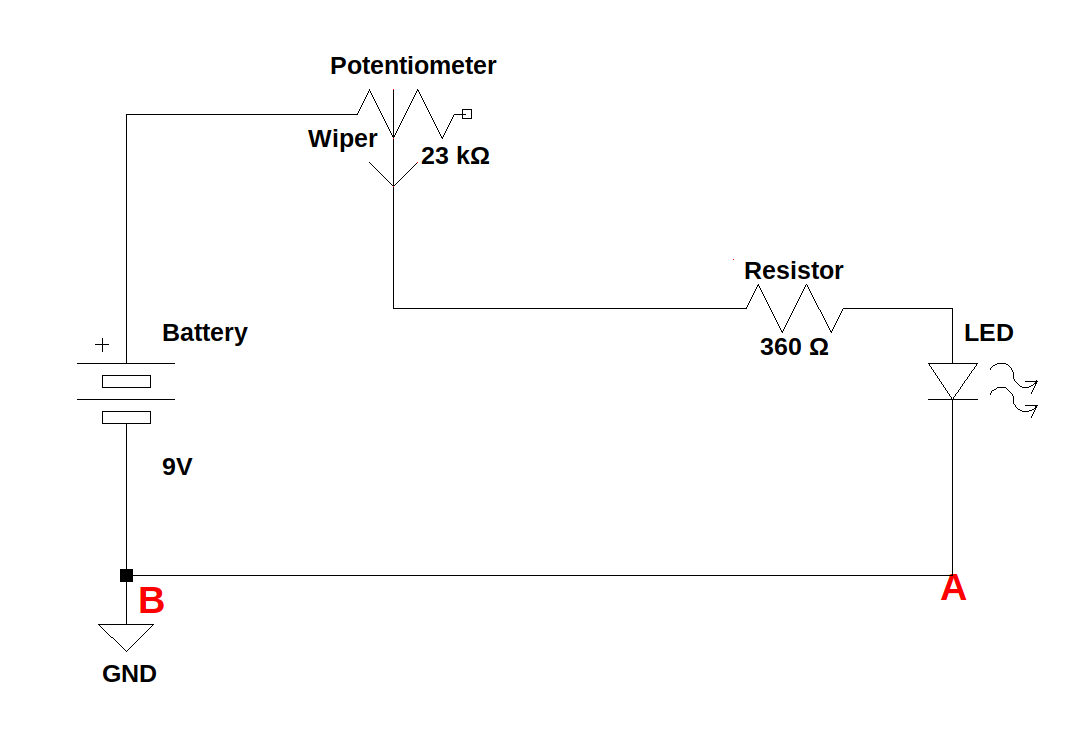
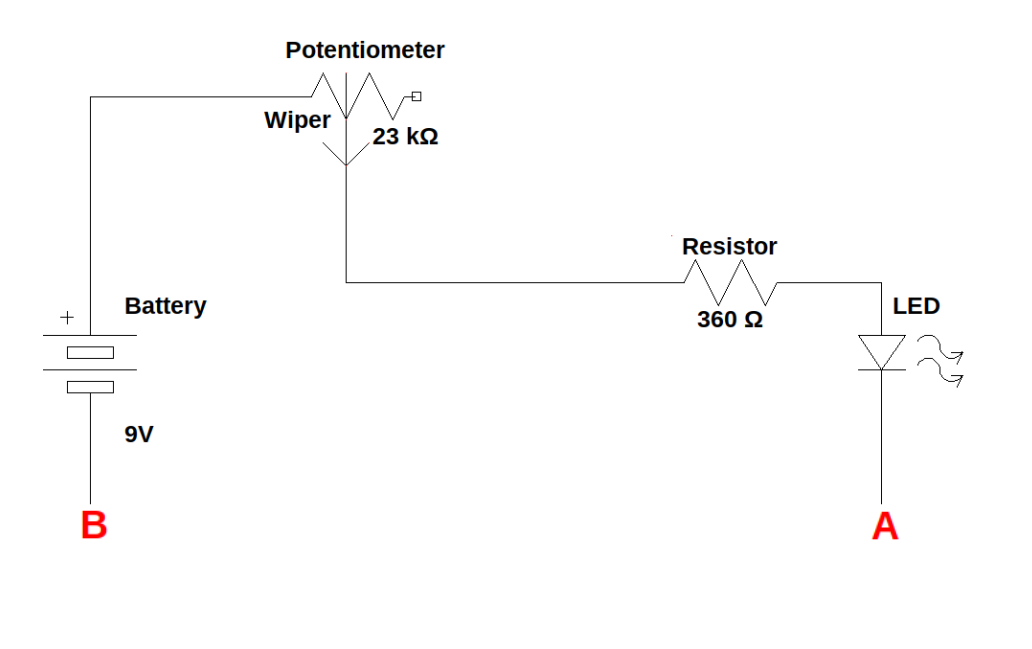
Fixed Lab 3

diff --git a/_labs/03_multimeters_measurements.md b/_labs/03_multimeters_measurements.md
@@ -19,7 +19,7 @@ NOTES:
 -->
 
 ## Overview
-In this lab we will be using some tools you are likely already familiar with to measure DC voltage, DC current, and resistance. Now that you know how to create and operate circuits using breadboards, its time to learn how to use multimeters.  
+In this lab we will be using some tools you are likely already familiar with to measure DC voltage, DC current, and resistance. Now that you know how to create and operate circuits using breadboards, it's time to learn how to use multimeters.  
 
 ## Background/Preparation <br>
 
@@ -35,7 +35,7 @@ The **current** *(amount of electricity)* flowing through a **conductor** *(anth
   $$ I = \frac{V}{R} ~~ or ~~ V = IR $$
 </p>
 
-The concepts of Ohm's law are often likened to a water pipe: the _voltage_ is the pressure of the water in the pipe - higher pressure pushes more water down the pipe. The _resistance_ is the size of the pipe - a larger pipe obviously means that its easier for water to flow through the pipe. Finally, the _current_ of the pipe is the actual amount of water flowing through any given cross section of the pipe.
+The concepts of Ohm's law are often compared to a water pipe: the _voltage_ is the pressure of the water in the pipe - higher pressure pushes more water down the pipe. The _resistance_ is the size of the pipe - a larger pipe allows for easier water flow through the pipe. Finally, the _current_ of the pipe is the actual amount of water flowing through any given cross section of the pipe.
 
 Pause and think - how would changing the height and width of the pipe affect how much water is flowing through it? How would pushing more water through the same pipe affect the pressure of the pipe? How can you relate these terms back to the concept of electricity flowing through wires?
 
@@ -86,17 +86,15 @@ Here are some things to keep in mind when you work with the multimeter:
 
 Notice that while there are only 3 _types_ of measurements, V, A, and Ω, there are also several _quantities_ available for each type of measurement. Becuase there is so much variety in electronic design, difference scales are available depending on the range of V, A, or Ω you expect to encounter.
 
-**Warning: Before you use a multimeter, you need what values you expect to encounter and select the appropriate scale. Failure to do so can overload the multimeter and may even cause a short circuit, which can be dangerous to you, and permanently damaging to both the circuit and the multimeter.**
+**Warning: Before you use a multimeter, you need to know what values you expect to encounter and select the appropriate scale. Failure to do so can overload the multimeter and may even cause a short circuit, which can be dangerous to you, and permanently damaging to both the circuit and the multimeter.**
 
 ## Equipment and Materials
 
 - Multimeter
 
-- Led  (5) (0.02A) (R, B, G, Purple, Orange, Yellow)
+- Led (5) (0.02A) (Red, Blue, Green, Orange, Yellow)
 
 - Potentiometer (1) (23 kΩ)
-
-- Buzzer (1) (R: 600 Ω)
 
 - Resistors: 250 Ω, 360 Ω, 750 Ω, 10 kΩ, 5 kΩ, 68 kΩ,
 
@@ -156,21 +154,21 @@ Summary: As you rotate the wiper (or knob) from left to right, the resistance in
 
 **Note:** Make sure you have set the multimeter in the right setting to measusre DC voltage (V symbol).
 
-#### Calculate Voltage:
+#### Measure Voltage:
 
 <figure class="image mx-auto" style="max-width: 750px">
-  <img src="{% link assets/03_multimeters_measurements/current__circuit_schematic.png %}" style="display: block; margin: auto;">
-  <figcaption style="text-align: center;"><strong></strong> This is a schematic we will be making to caluculate current in a cicuit.</figcaption>
+  <img src="{% link assets/03_multimeters_measurements/voltage__circuit_schematic.png %}" style="display: block; margin: auto;">
+  <figcaption style="text-align: center;"><strong></strong> This is a schematic of the circuit we will be making to measure voltage in a cicuit.</figcaption>
 </figure>
 
-**Step 1: Make connections:**  Follow the schematic or the video to make the circuit shown above.
+**Step 1: Make connections:**  Follow the schematic to make the circuit shown above.
 
-**Step 2: Measure the current:** You will be connecting your two aligator clips to the points  <span style="color: red;"> <b> A </b> </span> (Positive) and  <span style = "color : red"> <b> B </b> </span> (Ground) of the schematic to measure current.
+**Step 2: Measure the voltage drop across the LED:** You will be connecting your two aligator clips to the points  <span style="color: red;"> <b> A </b> </span> (Positive) and  <span style = "color : red"> <b> B </b> </span> of the schematic to measure the voltage drop across the LED.
 
 
-#### Calculate Varying Voltage:
+#### Measure Varying Voltage:
 
-We will be using a thermistor for this lab; a thermistor is a resistor that changes it's resistance with temperature.
+We will be using a thermistor for this lab; a thermistor is a resistor that changes its resistance with temperature.
 Refer to the image of the pinout for the thermistor to make sure you're making the connections to the right pins on the breadboard.
 
 <figure class="image mx-auto" style="max-width: 750px">
@@ -179,7 +177,7 @@ Refer to the image of the pinout for the thermistor to make sure you're making t
 Image Credit: Texas Instruments.</figcaption>
 </figure>
 
-**Step 1: Make connections:** Follow the schematic or the video to make the conenctions shown below. 
+**Step 1: Make connections:** Follow the schematic to make the circuit shown above.
 
 **Step 2: Measure the voltage:** Begin by measuring the voltage of the thermistor at room temperature. Then, pinch the thermistor with your fingers (which will increase temperature) and observe the change in voltage.
 
@@ -202,16 +200,15 @@ You'll notice that the voltage increased as the thermister's temperature did. Us
 
 <figure class="image mx-auto" style="max-width: 750px">
   <img src="{% link assets/03_multimeters_measurements/potentiometer_led_circuit_schematic.png %}" style="display: block; margin: auto;">
-  <figcaption style="text-align: center;"><strong></strong> This is a schematic we will be making to caluculate varying current in a cicuit using a potentiometer to vary current.</figcaption>
+  <figcaption style="text-align: center;"><strong></strong> This is a schematic we will be making to caluculate varying current in a cicuit using a potentiometer to control the current current.</figcaption>
 </figure>
 
-**Step 1: Make connections:**  Follow the schematic or the video to make the circuit shown in the schematic above.
+**Step 1: Make connections:**  Follow the schematic to make the circuit shown in the schematic above.
 
-**Step 2: Adjust the setting:** Connect your multimeter at points <span style="color: red;"> <b> A </b> </span> (Positive) and  <span style = "color : red"> <b> B </b> </span> (Ground). As you measure the current, you can adjust it by rotating the potentiometer's wiper. What do you notice changes about the circuit as you do that?   
+**Step 2: Adjust the setting:** Connect your multimeter at points <span style="color: red;"> <b> A </b> </span> (red lead) and  <span style = "color : red"> <b> B </b> </span>(black lead). Note that the multimeter acts as the final connection in the circuit. This is because it requires current to flow through it to measure it. Observe how the current changes while rotating the potentiometer's wiper. How does the LED change when you do that?   
 
 Using the Ohm's law $$ I = \frac{V}{R} $$, decide: what is happening to the LED when you change the current? What causes the change in brightness in the LED - voltage, or current? How do you know?
 
-**Explore Activity** You can now replace the led with a buzzer. Does the buzzer respond the same way as the LED? What determines the strength of the buzzer?
 
 <!--      Dynamic figure numbering script      -->
 <!-- This block is not visible to the students -->
